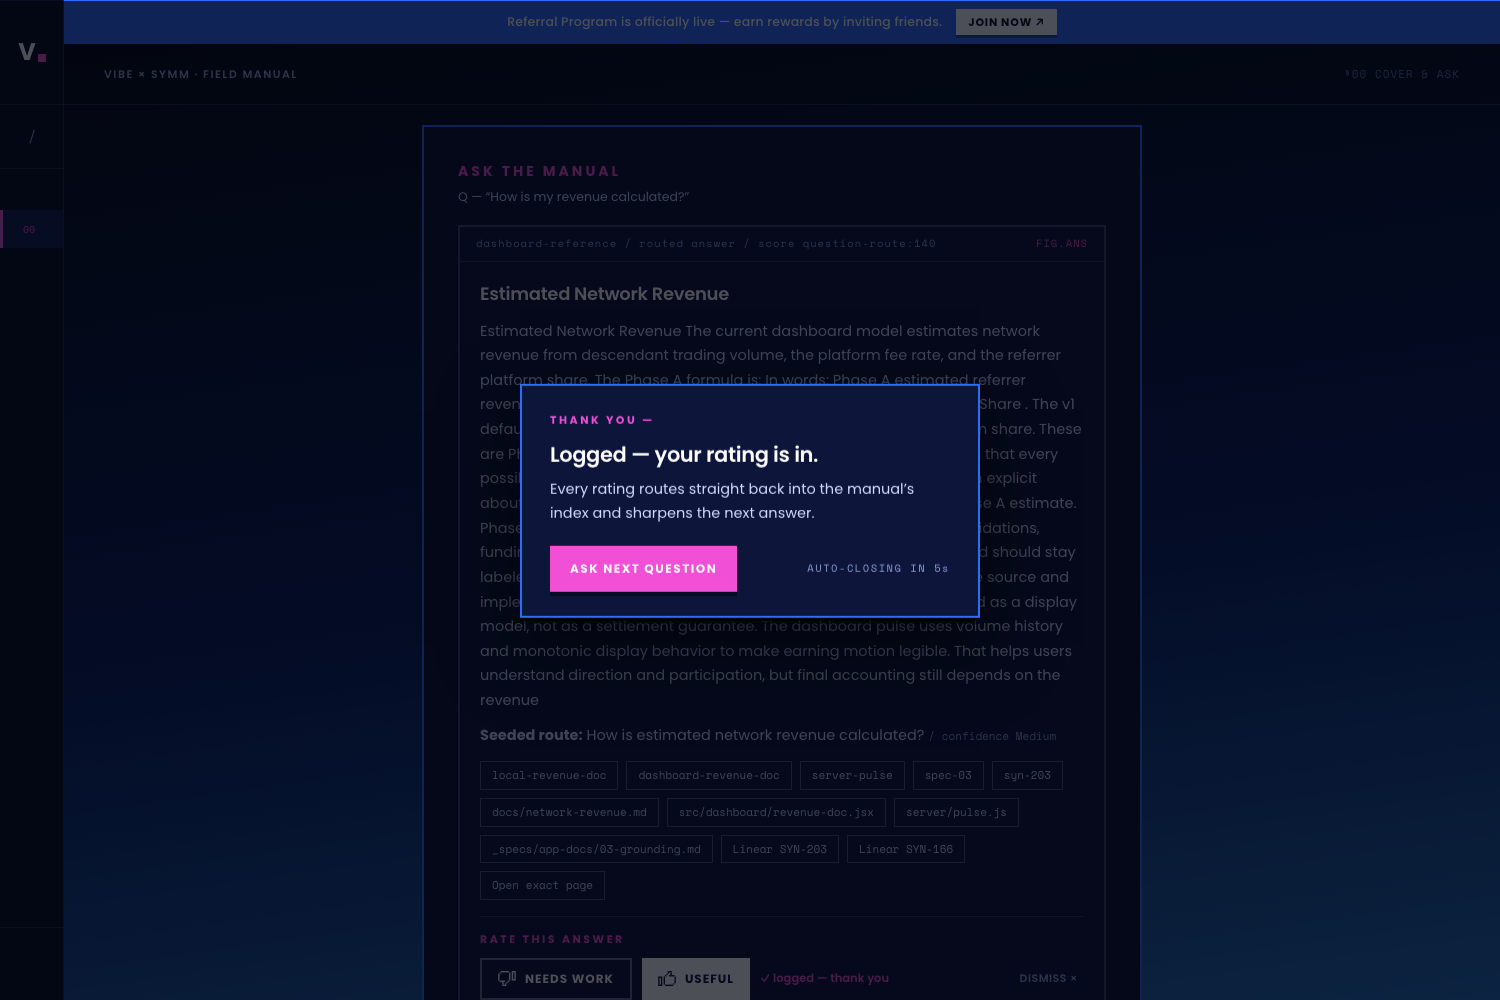
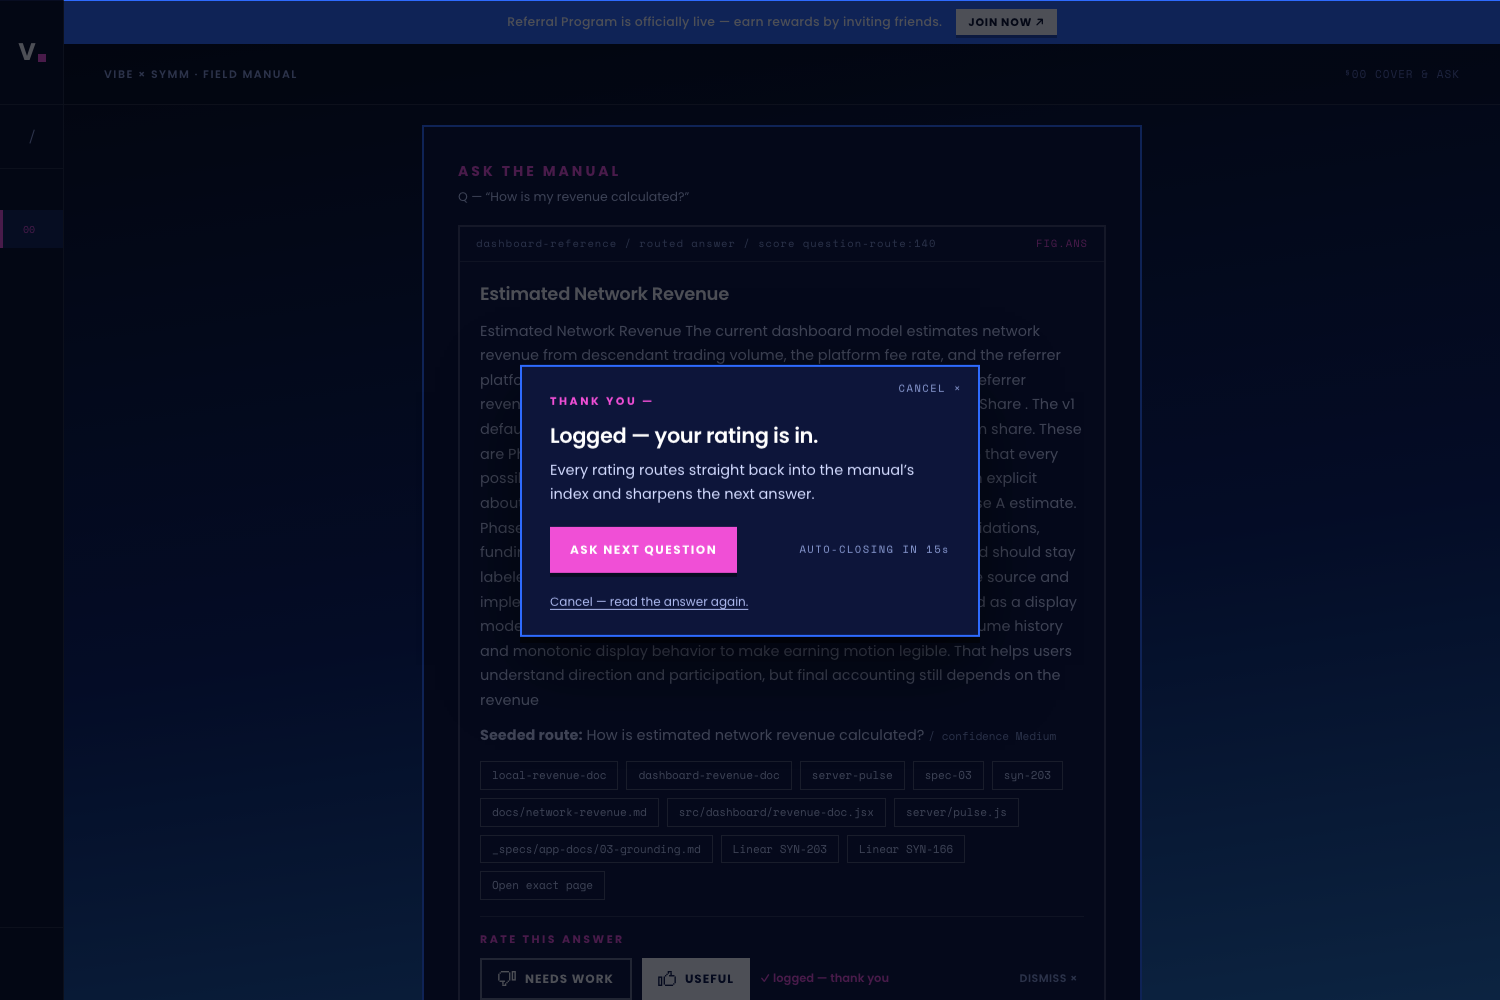
Thank-you dialog: 15s timer, cancel-to-re-read, fix instant-close (SYN-364)
Operator feedback round 2:
- Countdown 5s -> 15s for slow readers.
- Fix instant-close on the second vote of a session: the dialog stayed
  mounted, so the previous countdown's expired state (left <= 0) closed
  the next dialog immediately. Now mounted fresh per vote; regression
  test added.
- New cancel affordances that KEEP the answer readable: CANCEL x
  (top-right), an underlined "Cancel - read the answer again." link,
  backdrop, and Escape. Countdown end and ASK NEXT QUESTION still clear
  back to the ask form.

DESIGN.MD amendment updated in both copies; suites updated (19/19);
fidelity 04/m-04 retaken.

Changed region(s): [[0.3373, 0.341, 0.6747, 0.651]]

diff --git a/web/src/components/manual/VoteThanks.tsx b/web/src/components/manual/VoteThanks.tsx
@@ -3,31 +3,36 @@ import { Kicker } from './Kicker'
 
 export interface VoteThanksProps {
   open: boolean
-  /** Seconds before the dialog auto-closes (operator spec: 5). */
+  /** Seconds before the dialog auto-closes (operator spec: 15, for slow readers). */
   seconds?: number
   /** ASK NEXT QUESTION — caller clears the answer and refocuses the ask field. */
   onAskNext: () => void
-  /** Countdown end / backdrop / Escape. Caller decides whether the answer stays. */
-  onClose: () => void
+  /** CANCEL ×, the underlined link, backdrop, or Escape — close but KEEP the answer readable. */
+  onCancel: () => void
+  /** Countdown reached zero — caller clears the answer back to the ask form. */
+  onTimeout: () => void
 }
 
 /**
  * Post-vote thank-you dialog (SYN-364, operator amendment to DESIGN.MD §8):
- * confirms the logged rating, counts down from `seconds` in mono, auto-closes
- * at zero, and offers ASK NEXT QUESTION to close immediately.
+ * confirms the logged rating with a mono countdown. Mount fresh per vote —
+ * a persistent mount leaks the previous countdown's expired state and closes
+ * the next dialog instantly.
  */
-export function VoteThanks({ open, seconds = 5, onAskNext, onClose }: VoteThanksProps) {
+export function VoteThanks({ open, seconds = 15, onAskNext, onCancel, onTimeout }: VoteThanksProps) {
   const [left, setLeft] = useState(seconds)
   // Ref'd so parent re-renders (new handler identities) can't reset the countdown.
-  const onCloseRef = useRef(onClose)
-  onCloseRef.current = onClose
+  const onCancelRef = useRef(onCancel)
+  onCancelRef.current = onCancel
+  const onTimeoutRef = useRef(onTimeout)
+  onTimeoutRef.current = onTimeout
 
   useEffect(() => {
     if (!open) return
     setLeft(seconds)
     const iv = setInterval(() => setLeft((s) => s - 1), 1000)
     const onKey = (e: KeyboardEvent) => {
-      if (e.key === 'Escape') onCloseRef.current()
+      if (e.key === 'Escape') onCancelRef.current()
     }
     window.addEventListener('keydown', onKey)
     return () => {
@@ -37,14 +42,14 @@ export function VoteThanks({ open, seconds = 5, onAskNext, onClose }: VoteThanks
   }, [open, seconds])
 
   useEffect(() => {
-    if (open && left <= 0) onCloseRef.current()
+    if (open && left <= 0) onTimeoutRef.current()
   }, [open, left])
 
   if (!open) return null
 
   return (
     <div
-      onClick={onClose}
+      onClick={onCancel}
       style={{
         display: 'flex',
         position: 'fixed',
@@ -62,14 +67,35 @@ export function VoteThanks({ open, seconds = 5, onAskNext, onClose }: VoteThanks
         aria-label="Rating logged — thank you"
         onClick={(e) => e.stopPropagation()}
         style={{
+          position: 'relative',
           background: 'color-mix(in srgb,var(--paper) 55%,#16276e)',
           border: '2px solid #2e6bff',
           boxShadow: '0 6px 0 rgba(0,0,0,0.45),0 28px 70px rgba(0,0,0,0.55)',
           maxWidth: 460,
           width: '100%',
-          padding: '26px 28px 24px',
+          padding: '26px 28px 22px',
         }}
       >
+        <button
+          type="button"
+          onClick={onCancel}
+          aria-label="Cancel and keep reading"
+          style={{
+            position: 'absolute',
+            top: 10,
+            right: 12,
+            background: 'transparent',
+            border: 'none',
+            padding: 4,
+            fontFamily: 'var(--font-mono)',
+            fontSize: 10.5,
+            letterSpacing: 1.5,
+            color: '#8fa0d8',
+            cursor: 'pointer',
+          }}
+        >
+          CANCEL ×
+        </button>
         <Kicker size={11} tracking={2.5} style={{ marginBottom: 10 }}>
           THANK YOU —
         </Kicker>
@@ -96,6 +122,7 @@ export function VoteThanks({ open, seconds = 5, onAskNext, onClose }: VoteThanks
             justifyContent: 'space-between',
             gap: 18,
             flexWrap: 'wrap',
+            marginBottom: 16,
           }}
         >
           <button
@@ -128,6 +155,24 @@ export function VoteThanks({ open, seconds = 5, onAskNext, onClose }: VoteThanks
             AUTO-CLOSING IN {Math.max(left, 0)}s
           </span>
         </div>
+        <button
+          type="button"
+          onClick={onCancel}
+          style={{
+            background: 'transparent',
+            border: 'none',
+            padding: 0,
+            fontFamily: 'var(--font-sans)',
+            fontSize: 12,
+            color: '#aebaf0',
+            textDecoration: 'underline',
+            textUnderlineOffset: 3,
+            cursor: 'pointer',
+            textAlign: 'left',
+          }}
+        >
+          Cancel — read the answer again.
+        </button>
       </div>
     </div>
   )

diff --git a/web/tests/field-manual.spec.ts b/web/tests/field-manual.spec.ts
@@ -127,26 +127,39 @@ test.describe('search → answer → vote (service round-trip)', () => {
     await page.keyboard.press('Enter')
     await expect(page.getByText(/service answer|service refusal/).first()).toBeVisible({ timeout: 20_000 })
 
-    // Optimistic reaction; SYN-364 thank-you dialog with a 5s mono countdown.
+    // Optimistic reaction; SYN-364 thank-you dialog with a 15s mono countdown.
     await page.getByRole('button', { name: 'USEFUL' }).click()
     await expect(page.getByRole('dialog', { name: 'Rating logged — thank you' })).toBeVisible()
-    await expect(page.getByText(/AUTO-CLOSING IN [0-5]s/)).toBeVisible()
+    await expect(page.getByText(/AUTO-CLOSING IN 1[0-5]s/)).toBeVisible()
 
     // One-shot: a direct re-click on the locked button must not re-POST; the
     // selected state is inverted to white. (element.click bypasses the overlay)
     await page.getByRole('button', { name: 'USEFUL' }).evaluate((el) => (el as HTMLElement).click())
     await expect(page.getByRole('button', { name: 'USEFUL' })).toHaveCSS('background-color', 'rgb(255, 255, 255)')
 
-    // Any exit clears the answer back to the ask form (operator correction).
-    await page.mouse.click(40, 500)
+    // CANCEL × closes the dialog but keeps the answer readable.
+    await page.getByRole('button', { name: 'Cancel and keep reading' }).click()
     await expect(page.getByRole('dialog')).toHaveCount(0)
-    await expect(page.getByText('Routes your question to the nearest indexed figure.')).toBeVisible()
-    await expect(page.getByText(/service answer|service refusal/)).toHaveCount(0)
+    await expect(page.getByText(/service answer|service refusal/).first()).toBeVisible()
     await page.waitForTimeout(300)
     expect(ratingPosts).toEqual([200])
 
+    // Regression (instant-close bug): a second vote in the same session must
+    // get a fresh countdown, not an instantly-closed dialog.
+    await page.getByRole('button', { name: 'DISMISS ×' }).click() // rated → resets to the form
+    await expect(page.getByText('Routes your question to the nearest indexed figure.')).toBeVisible()
+    await page.getByPlaceholder(ASK_PLACEHOLDER).fill('When do referral points credit?')
+    await page.keyboard.press('Enter')
+    await expect(page.getByText(/service answer|service refusal/).first()).toBeVisible({ timeout: 20_000 })
+    await page.getByRole('button', { name: 'USEFUL' }).click()
+    await expect(page.getByRole('dialog', { name: 'Rating logged — thank you' })).toBeVisible()
+    await expect(page.getByText(/AUTO-CLOSING IN 1[0-5]s/)).toBeVisible()
+    await page.getByRole('button', { name: 'ASK NEXT QUESTION' }).click()
+    await expect(page.getByText('Routes your question to the nearest indexed figure.')).toBeVisible()
+    expect(ratingPosts).toEqual([200, 200])
+
     const after = await serviceTotals()
-    expect(after.ratings).toBe((before.ratings || 0) + 1)
+    expect(after.ratings).toBe((before.ratings || 0) + 2)
     expect(after.questions).toBeGreaterThan(before.questions || 0)
   })
 
@@ -171,8 +184,8 @@ test.describe('search → answer → vote (service round-trip)', () => {
     await page.getByRole('dialog').getByRole('button', { name: 'NEEDS WORK' }).click()
     await expect(page.getByText('HOLD ON —')).not.toBeVisible()
     await expect(page.getByRole('dialog', { name: 'Rating logged — thank you' })).toBeVisible()
-    await expect(page.getByText(/AUTO-CLOSING IN [0-5]s/)).toBeVisible()
-    await expect(page.getByText('Routes your question to the nearest indexed figure.')).toBeVisible({ timeout: 7_000 })
+    await expect(page.getByText(/AUTO-CLOSING IN 1[0-5]s/)).toBeVisible()
+    await expect(page.getByText('Routes your question to the nearest indexed figure.')).toBeVisible({ timeout: 17_000 })
     await expect(page.getByRole('dialog')).toHaveCount(0)
 
     const after = await serviceTotals()

diff --git a/web/src/app/views/CoverView.tsx b/web/src/app/views/CoverView.tsx
@@ -14,9 +14,9 @@ import { useState } from 'react'
  */
 export function CoverView({ app }: { app: SearchBookApp }) {
   const [guardOpen, setGuardOpen] = useState(false)
-  // Post-vote thank-you dialog (SYN-364). Every exit — countdown end, backdrop,
-  // Escape, or ASK NEXT QUESTION — clears the answer back to the ask form
-  // (operator correction 2026-07-04).
+  // Post-vote thank-you dialog (SYN-364). Countdown end and ASK NEXT QUESTION
+  // clear the answer back to the ask form; CANCEL ×, the underlined link,
+  // backdrop, and Escape keep the answer readable (operator, 2026-07-04).
   const [thanks, setThanks] = useState(false)
 
   const answer = app.answer
@@ -192,7 +192,16 @@ export function CoverView({ app }: { app: SearchBookApp }) {
         onDismiss={resetAnswer}
       />
 
-      <VoteThanks open={thanks} onAskNext={askNext} onClose={resetAnswer} />
+      {thanks && (
+        // Mounted fresh per vote — a persistent mount leaks the previous
+        // countdown's expired state and closes the next dialog instantly.
+        <VoteThanks
+          open
+          onAskNext={askNext}
+          onCancel={() => setThanks(false)}
+          onTimeout={resetAnswer}
+        />
+      )}
     </div>
   )
 }

diff --git a/web/tests/field-manual-mobile.spec.ts b/web/tests/field-manual-mobile.spec.ts
@@ -146,11 +146,11 @@ test.describe('mobile voting', () => {
 
     await page.getByRole('button', { name: 'USEFUL' }).click()
     await expect(page.getByText('✓ logged — thank you')).toBeVisible()
-    // SYN-364 dialog: any exit clears back to the ask form (operator correction).
+    // SYN-364 dialog: backdrop = cancel, keeps the answer readable.
     await expect(page.getByRole('dialog', { name: 'Rating logged — thank you' })).toBeVisible()
     await page.mouse.click(20, 60)
     await expect(page.getByRole('dialog')).toHaveCount(0)
-    await expect(page.getByText('Routes your question to the nearest indexed figure.')).toBeVisible()
+    await expect(page.getByText(/service answer|service refusal/).first()).toBeVisible()
     await page.waitForTimeout(400)
     expect(ratingPosts).toEqual([200])
     const after = await serviceTotals()

diff --git a/DESIGN.MD b/DESIGN.MD
@@ -97,7 +97,7 @@ Diagram conventions: hatching = `repeating-linear-gradient(45°, white/12–14 0
 ## 8. Behavior notes
 
 - Q&A: keyword-matched canned answers (points credit / revenue calc / counter paused / invites) + low-confidence fallback routing to §04. Answer replaces the ask form; Q echoes above it.
-- Rating from the modal auto-dismisses the answer after 850ms. **Operator amendment 2026-07-04 (SYN-364), supersedes the 850ms rule:** any successful vote opens a thank-you dialog ("Logged — your rating is in.") with a 5s mono countdown; every exit — countdown end, backdrop, Escape, or `ASK NEXT QUESTION` — clears the answer and returns the ask form (the button additionally refocuses the ask field).
+- Rating from the modal auto-dismisses the answer after 850ms. **Operator amendment 2026-07-04 (SYN-364), supersedes the 850ms rule:** any successful vote opens a thank-you dialog ("Logged — your rating is in.") with a 15s mono countdown; countdown end and `ASK NEXT QUESTION` clear the answer and return the ask form (the button refocuses the ask field); `CANCEL ×` (top-right), the underlined cancel link, backdrop, and Escape close the dialog but keep the answer readable.
 - Section state is a single `page` value; sidebar, top-bar indicator, and visible pshell all derive from it.
 - Scrollbar is styled (11px, `#1b2c74` thumb, paper track); selection is magenta/white.
 

diff --git a/docs/goals/field-manual-v2/DESIGN.MD b/docs/goals/field-manual-v2/DESIGN.MD
@@ -97,7 +97,7 @@ Diagram conventions: hatching = `repeating-linear-gradient(45°, white/12–14 0
 ## 8. Behavior notes
 
 - Q&A: keyword-matched canned answers (points credit / revenue calc / counter paused / invites) + low-confidence fallback routing to §04. Answer replaces the ask form; Q echoes above it.
-- Rating from the modal auto-dismisses the answer after 850ms. **Operator amendment 2026-07-04 (SYN-364), supersedes the 850ms rule:** any successful vote opens a thank-you dialog ("Logged — your rating is in.") with a 5s mono countdown; every exit — countdown end, backdrop, Escape, or `ASK NEXT QUESTION` — clears the answer and returns the ask form (the button additionally refocuses the ask field).
+- Rating from the modal auto-dismisses the answer after 850ms. **Operator amendment 2026-07-04 (SYN-364), supersedes the 850ms rule:** any successful vote opens a thank-you dialog ("Logged — your rating is in.") with a 15s mono countdown; countdown end and `ASK NEXT QUESTION` clear the answer and return the ask form (the button refocuses the ask field); `CANCEL ×` (top-right), the underlined cancel link, backdrop, and Escape close the dialog but keep the answer readable.
 - Section state is a single `page` value; sidebar, top-bar indicator, and visible pshell all derive from it.
 - Scrollbar is styled (11px, `#1b2c74` thumb, paper track); selection is magenta/white.
 
